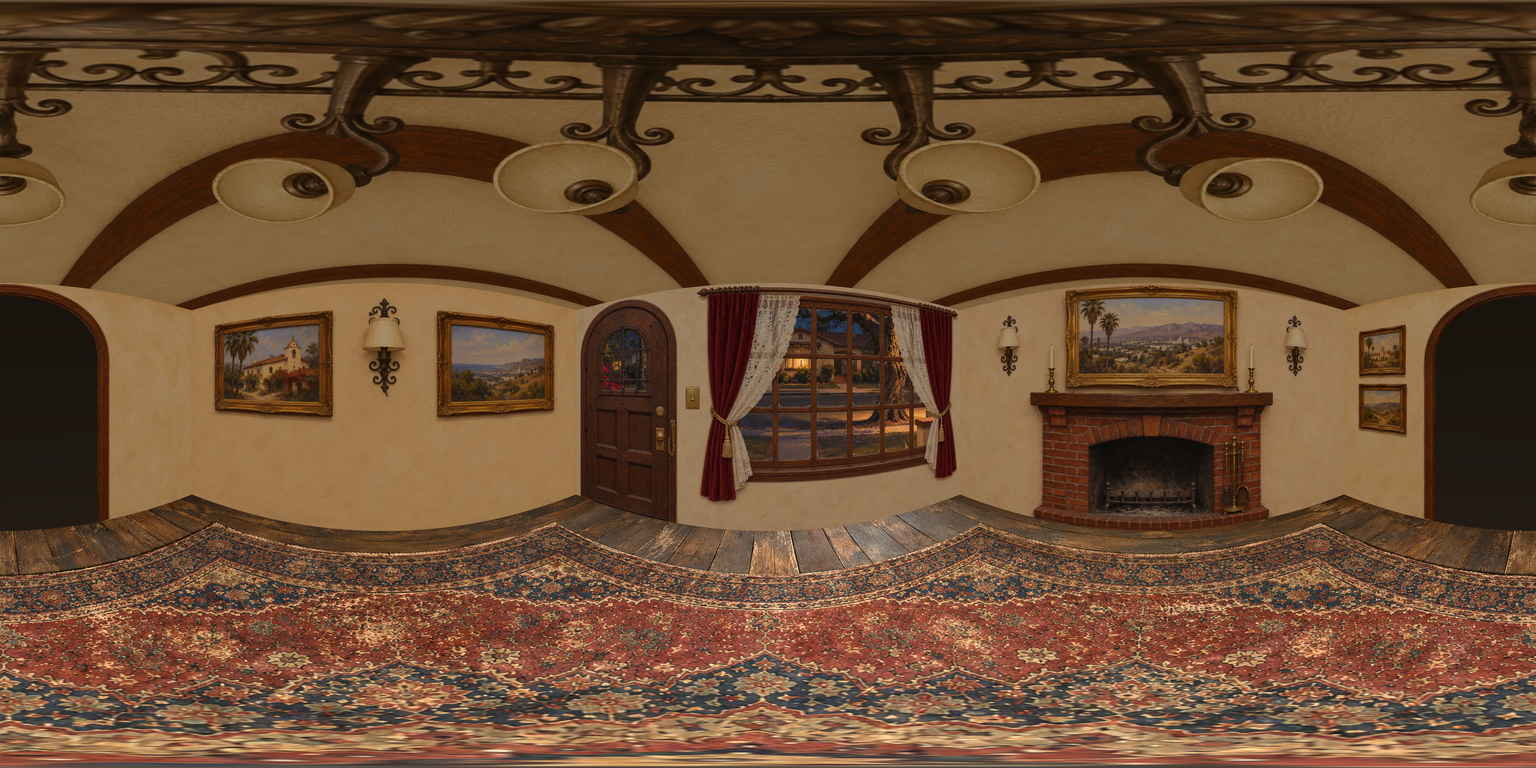
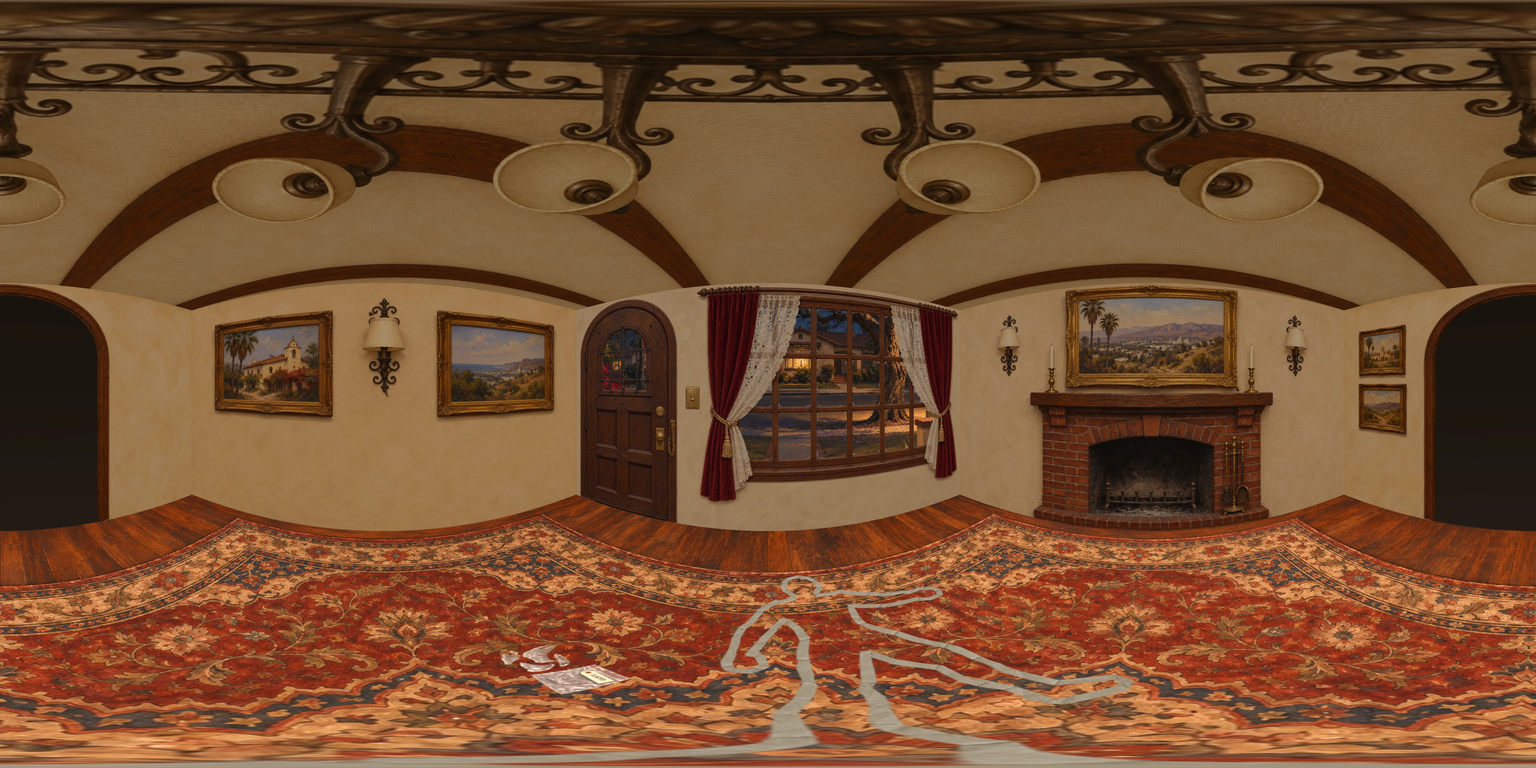
Testing Zone: furnish Eleanor's living room, with the case's inspect spots
Claude-Session: https://claude.ai/code/session_013LCfUXWQD6NCZDVs8qittP

Changed region(s): [[0.0, 0.625, 1.0, 1.0]]

diff --git a/src/game/rooms/c001-living-room.ts b/src/game/rooms/c001-living-room.ts
@@ -26,5 +26,31 @@ export const C001_LIVING_ROOM: TestRoom = {
   },
   // The wrought iron chandelier in the middle of the ceiling.
   light: { x: 0, y: 0.86, z: 0, color: [1.0, 0.84, 0.62], strength: 7 },
-  hotspots: [{ kind: "switch", id: "lr-switch", yaw: -17.7, pitch: -3.1, label: "Light switch" }],
+  props: [
+    // Under the front window.
+    { id: "sofa", image: "/rooms/c001-living-room/props/sofa.webp", x: 0.23, z: -0.62, width: 0.78, height: 0.345, gain: 1.2, shadow: { width: 0.8, depth: 0.28, back: 0.08 } },
+    // Front right corner, beside the sofa.
+    { id: "side-table", image: "/rooms/c001-living-room/props/side_table.webp", x: 0.74, z: -0.72, width: 0.22, height: 0.46, gain: 1.2, shadow: { width: 0.22, depth: 0.2, back: 0.03 } },
+    // On the rug, a little left of the tape marks (the tape marks and broken glass are laid into the floor image).
+    { id: "chair", image: "/rooms/c001-living-room/props/chair.webp", x: -0.33, z: -0.36, width: 0.36, height: 0.28, gain: 1.2, shadow: { width: 0.36, depth: 0.25, back: 0.06 } },
+    // Left wall: the roll-top desk toward the front door, the sideboard toward the kitchen arch.
+    { id: "rolltop", image: "/rooms/c001-living-room/props/rolltop.webp", x: -0.72, z: -0.4, width: 0.548, height: 0.48, gain: 1.2, shadow: { width: 0.5, depth: 0.25, back: 0.06 } },
+    { id: "sideboard", image: "/rooms/c001-living-room/props/sideboard.webp", x: -0.72, z: 0.38, width: 0.68, height: 0.477, gain: 1.2, shadow: { width: 0.62, depth: 0.22, back: 0.05 } },
+    // Back right corner, by the fireplace and the kitchen arch.
+    { id: "palm", image: "/rooms/c001-living-room/props/palm.webp", x: 0.7, z: 0.7, width: 0.4, height: 0.62, gain: 1.2, shadow: { width: 0.25, depth: 0.22, back: 0.02 } },
+  ],
+  hotspots: [
+    { kind: "switch", id: "lr-switch", yaw: -17.7, pitch: -3.1, label: "Light switch" },
+    { kind: "inspect", id: "lr_chair", yaw: -42.5, pitch: -43.9, label: "Overturned chair", text: "Overturned chair: One of the dining chairs, brought in for coffee. It lies on its back." },
+    { kind: "inspect", id: "lr_glass", yaw: -49.6, pitch: -66.7, label: "Broken glass", text: "Broken glass: Crystal shards on the carpet, a bagged piece beside them with an LAPD tag." },
+    { kind: "inspect", id: "lr_sofa", yaw: 20.4, pitch: -33.6, label: "Sofa", text: "Where she was found: Police tape marks on the carpet between the sofa and the overturned chair show where Eleanor was found. The sofa cushions are still squared off. Nothing on this side of the room was disturbed." },
+    { kind: "inspect", id: "lr_ledger", yaw: -62.5, pitch: -20.0, label: "Writing desk", text: "Eleanor's writing desk: A roll-top desk. Her household ledger lies open on the blotter." },
+    { kind: "inspect", id: "lr_diary", yaw: -59.8, pitch: -16.0, label: "Desk diary", text: "Desk diary: A leather desk diary propped open on the shelf above the blotter." },
+    { kind: "inspect", id: "lr_drawer", yaw: -57.9, pitch: -28.2, label: "Desk filing drawer", text: "Filing drawer: A deep drawer of hanging files, each labeled in Eleanor's handwriting. One gap stands out." },
+    { kind: "inspect", id: "lr_sideboard", yaw: -117.8, pitch: -27.3, label: "Sideboard", text: "Sideboard: A glass cake stand with a few crumbs of lemon cake, five dessert plates stacked beside it, and a tray of crystal water glasses. One place in the set is empty. A space on the runner where something long lay." },
+    { kind: "inspect", id: "lr_wine", yaw: -110.7, pitch: -15.0, label: "Wine bottle", text: "Wine bottle: A 1979 Burgundy, two-thirds empty. Fingerprint powder on the neck. The police lab report found only Eleanor's prints." },
+    { kind: "inspect", id: "lr_poker", yaw: 109.7, pitch: -20.0, label: "Fireplace tools", text: "Fireplace tools: Poker, brush and shovel, hanging neatly in their stand. A film of dust on all three. The grate holds old, cold ash. No one has lit a fire here since spring." },
+    { kind: "inspect", id: "lr_front_door", yaw: -34.1, pitch: -4.7, label: "Front door", text: "Front door: Solid oak, with a deadbolt and a brass chain. No damage. Margaret Ellis let herself in with her spare key at 7:40 on Saturday morning; the door was locked and the chain was off." },
+    { kind: "inspect", id: "lr_to_kitchen", yaw: 179.5, pitch: -10.2, label: "Kitchen", text: "Test hotspot. The kitchen is not built in 360° yet; this will walk you through." },
+  ],
 };
